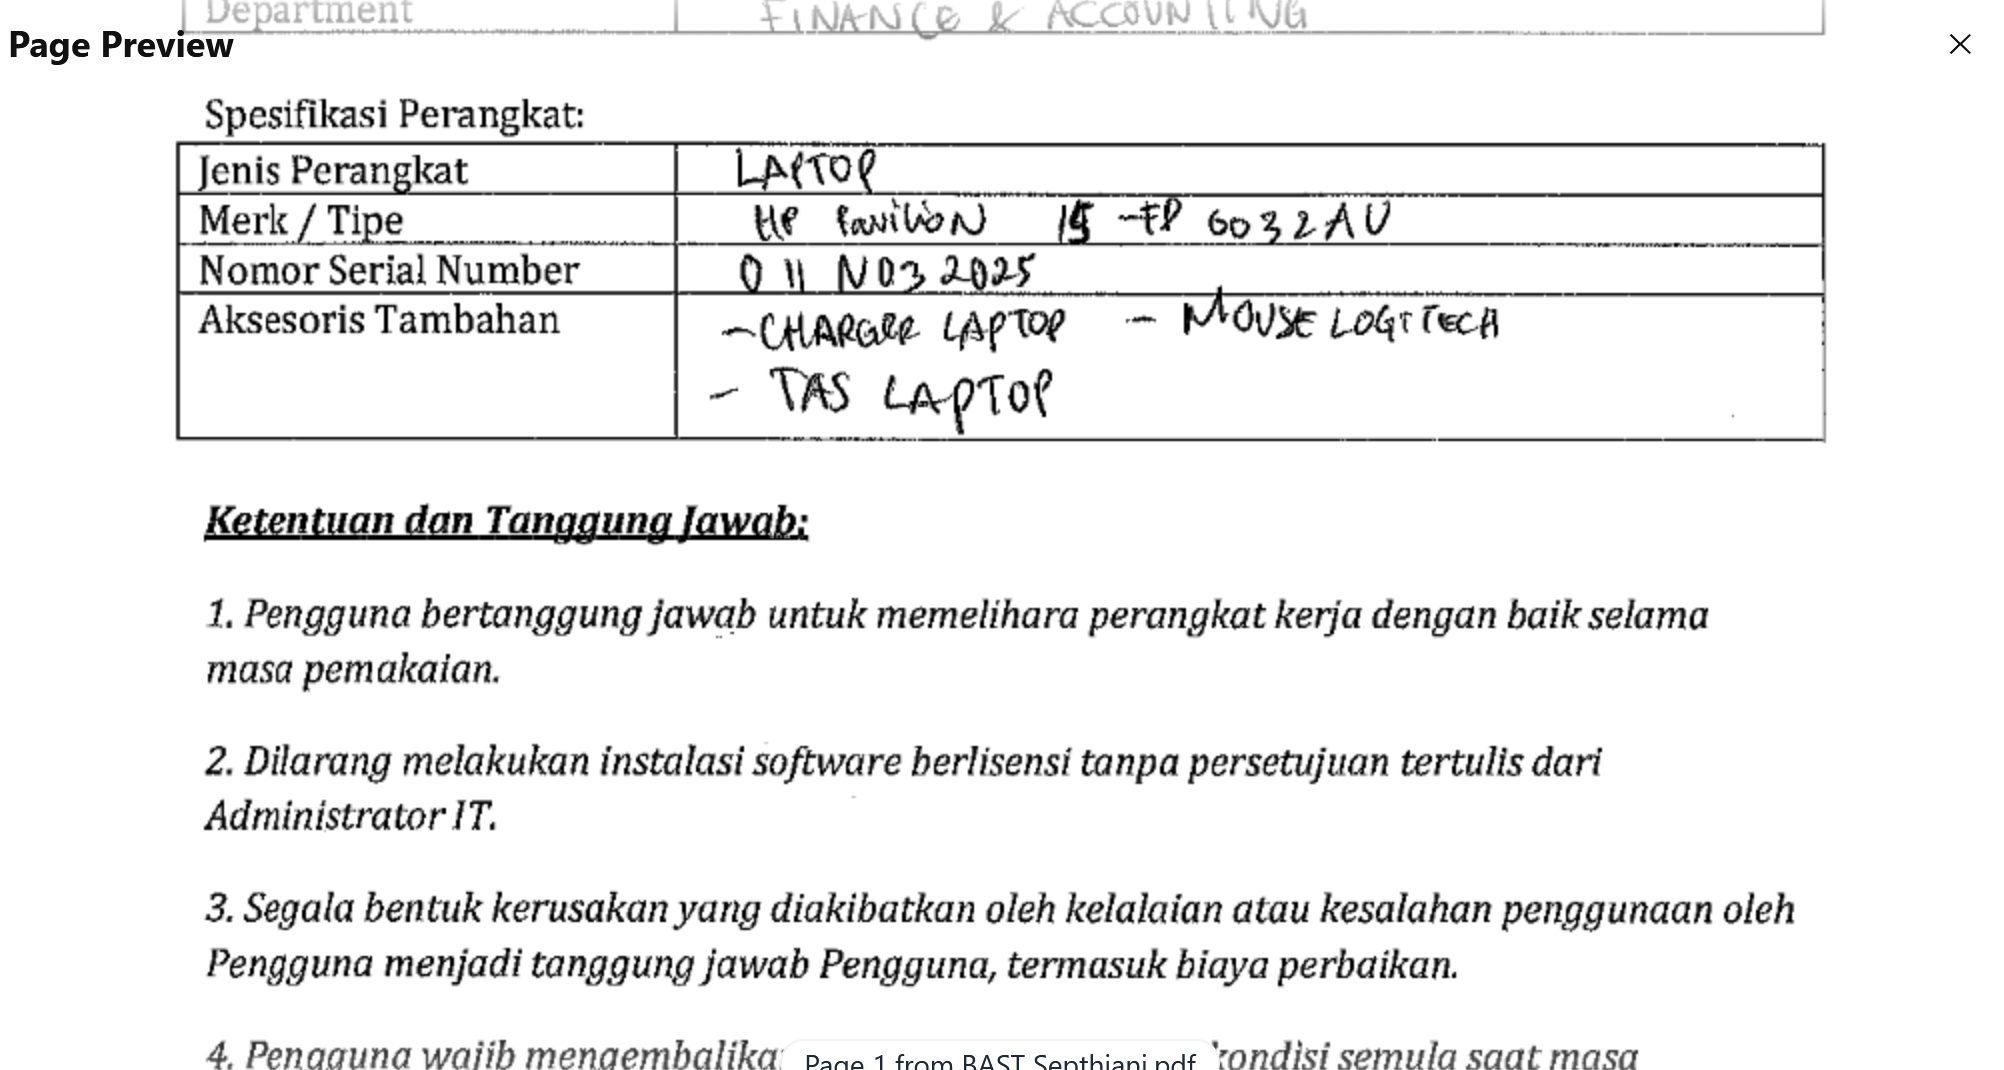
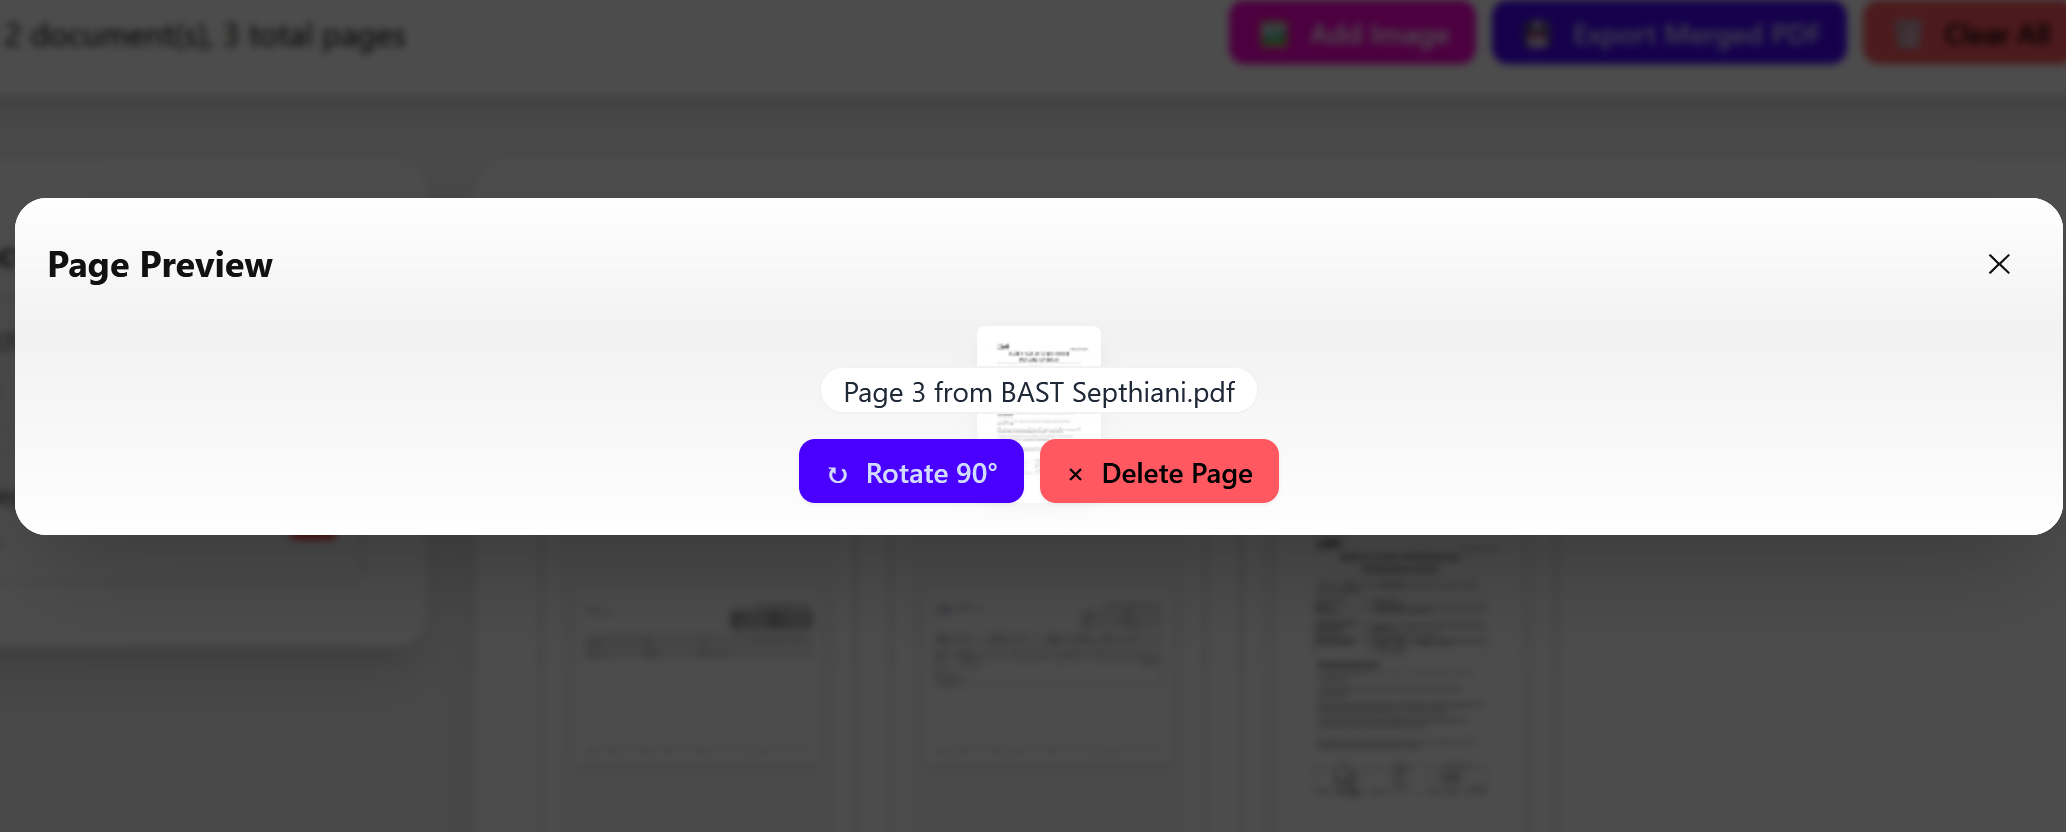
Increase zoom preview size and move page info to header

diff --git a/prototype/index.html b/prototype/index.html
@@ -224,31 +224,31 @@
 
     <!-- Zoom Preview Modal -->
     <dialog id="zoomPreviewModal" class="modal" aria-labelledby="zoomPreviewModalTitle">
-      <div class="modal-box max-w-5xl w-full p-0">
-        <div class="relative">
+      <div class="modal-box max-w-7xl w-full h-[90vh] p-0">
+        <div class="relative h-full">
           <!-- Floating Header -->
           <div class="absolute top-0 left-0 right-0 z-10 bg-gradient-to-b from-base-100/95 to-transparent p-4 flex justify-between items-center">
-            <h2 id="zoomPreviewModalTitle" class="text-lg font-bold">Page Preview</h2>
+            <div class="flex flex-col">
+              <h2 id="zoomPreviewModalTitle" class="text-lg font-bold">Page Preview</h2>
+              <div id="zoomPreviewInfo" class="text-xs text-base-content/70 mt-1"></div>
+            </div>
             <button id="closeZoomPreviewBtn" class="btn btn-sm btn-circle btn-ghost" aria-label="Close preview">✕</button>
           </div>
 
           <!-- Canvas Container -->
-          <div id="zoomPreviewCanvas" class="w-full overflow-auto max-h-[80vh] bg-base-200 flex justify-center items-center p-4 pt-16"></div>
+          <div id="zoomPreviewCanvas" class="w-full h-full bg-base-200 flex justify-center items-center"></div>
 
-          <!-- Floating Info & Actions -->
+          <!-- Floating Actions -->
           <div class="absolute bottom-0 left-0 right-0 z-10 bg-gradient-to-t from-base-100/95 to-transparent p-4">
-            <div class="flex flex-col items-center gap-3">
-              <div id="zoomPreviewInfo" class="text-sm font-medium text-base-content badge badge-lg"></div>
-              <div class="flex gap-2">
-                <button id="zoomRotateBtn" class="btn btn-primary btn-sm gap-2">
-                  <span>↻</span>
-                  Rotate 90°
-                </button>
-                <button id="zoomDeleteBtn" class="btn btn-error btn-sm gap-2">
-                  <span>×</span>
-                  Delete Page
-                </button>
-              </div>
+            <div class="flex justify-center gap-2">
+              <button id="zoomRotateBtn" class="btn btn-primary btn-sm gap-2">
+                <span>↻</span>
+                Rotate 90°
+              </button>
+              <button id="zoomDeleteBtn" class="btn btn-error btn-sm gap-2">
+                <span>×</span>
+                Delete Page
+              </button>
             </div>
           </div>
         </div>

diff --git a/prototype/src/multi-pdf-ui.js b/prototype/src/multi-pdf-ui.js
@@ -471,26 +471,30 @@ class MultiPDFUI {
 
       const page = await pageDesc.pdfDoc.getPage(pageDesc.pageNum);
 
-      // Calculate viewport - start with scale 1.5 for better quality
+      // Calculate viewport - use higher scale for zoom
       const rotation = pageDesc.rotation || 0;
-      let viewport = page.getViewport({ scale: 1.5, rotation });
 
-      // Check if we need to scale down to fit container
-      const maxWidth = canvasContainer.clientWidth - 32; // Account for padding
-      const maxHeight = canvasContainer.clientHeight - 32;
+      // Get container dimensions (accounting for header/footer padding)
+      const maxWidth = canvasContainer.clientWidth - 40;
+      const maxHeight = canvasContainer.clientHeight - 160; // Space for header and footer
 
-      if (viewport.width > maxWidth || viewport.height > maxHeight) {
-        const scaleX = maxWidth / viewport.width;
-        const scaleY = maxHeight / viewport.height;
-        const scale = Math.min(scaleX, scaleY) * 1.5;
-        viewport = page.getViewport({ scale, rotation });
-      }
+      // Start with base viewport to get dimensions
+      let baseViewport = page.getViewport({ scale: 1.0, rotation });
+
+      // Calculate scale to fit container while maximizing size
+      const scaleX = maxWidth / baseViewport.width;
+      const scaleY = maxHeight / baseViewport.height;
+      const scale = Math.min(scaleX, scaleY);
+
+      // Apply scale (minimum 1.0 to ensure quality)
+      const finalScale = Math.max(scale, 1.0);
+      const viewport = page.getViewport({ scale: finalScale, rotation });
 
       // Create canvas
       const canvas = document.createElement('canvas');
       canvas.width = viewport.width;
       canvas.height = viewport.height;
-      canvas.className = 'shadow-lg rounded max-w-full max-h-full';
+      canvas.className = 'shadow-2xl rounded max-w-full max-h-full';
       canvas.style.display = 'block';
 
       const ctx = canvas.getContext('2d');
@@ -499,7 +503,7 @@ class MultiPDFUI {
       // Update UI with wrapper
       canvasContainer.innerHTML = '';
       const wrapper = document.createElement('div');
-      wrapper.className = 'flex items-center justify-center w-full h-full';
+      wrapper.className = 'flex items-center justify-center w-full h-full p-4';
       wrapper.appendChild(canvas);
       canvasContainer.appendChild(wrapper);
 
